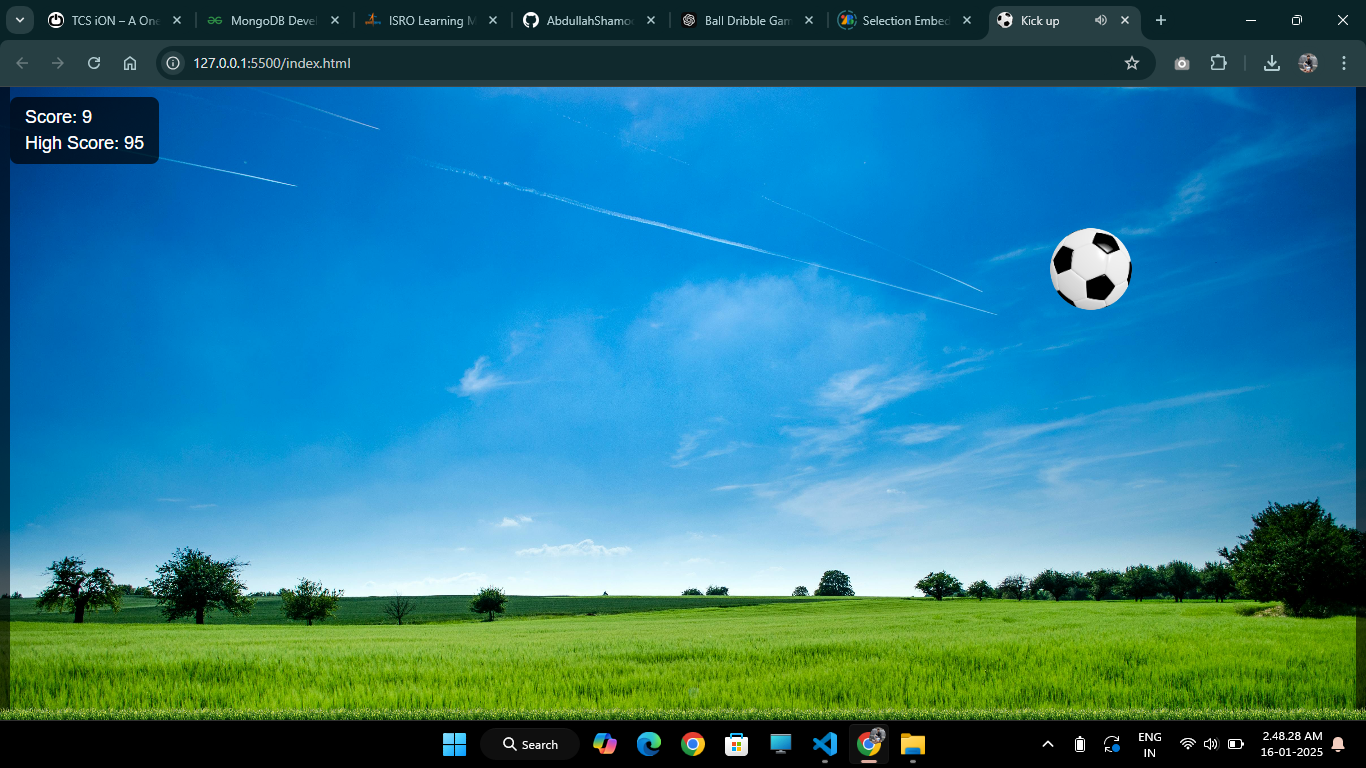
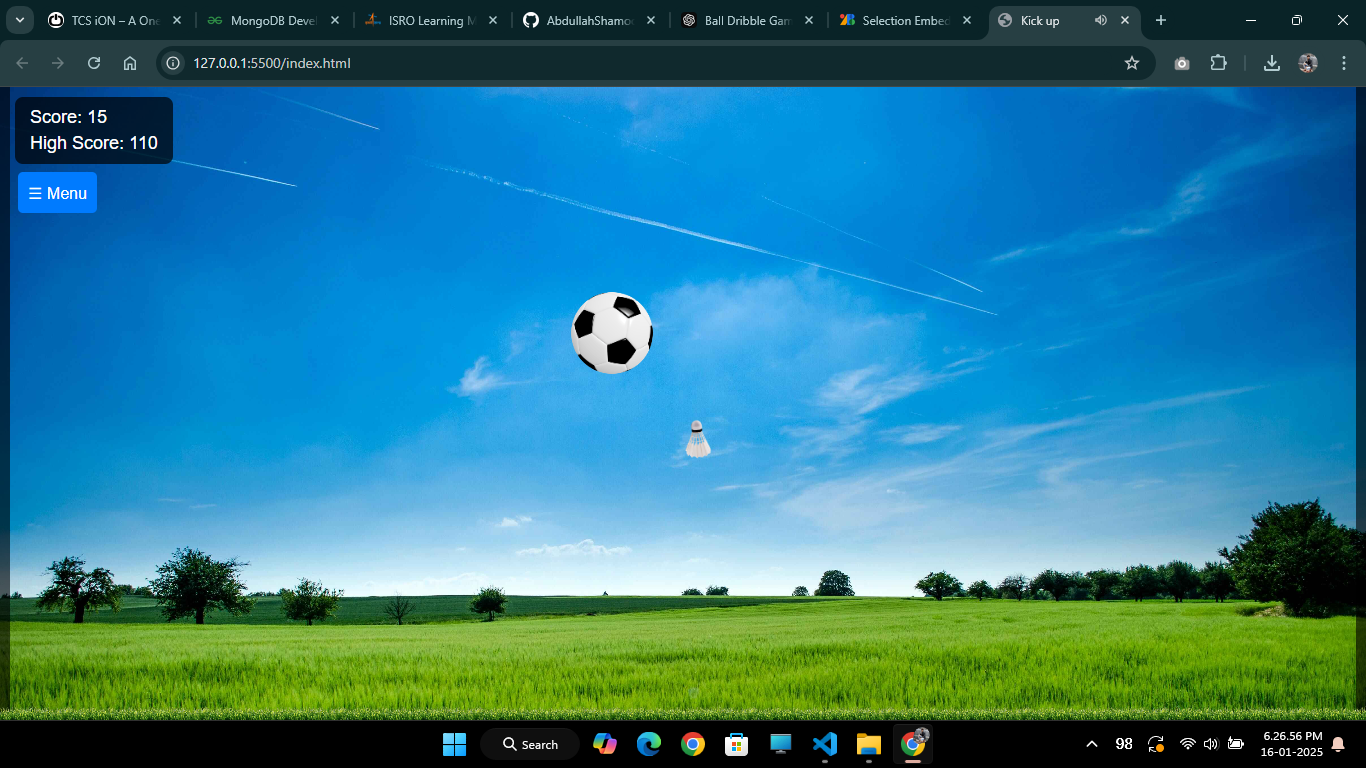
updated readme

diff --git a/README.md b/README.md
@@ -1,37 +1,101 @@
 # Kick Up
 
-**Kick Up** is an interactive, fun game where you use your mouse to bounce a ball off the ground as many times as possible. Each successful bounce adds to your score, and if the ball falls to the ground, the game ends. The ball will bounce in the opposite direction depending on where the mouse cursor hits it, making the game both challenging and exciting.
+An interactive and fun web-based game where you control a bouncing ball using a custom cursor. The goal is to keep the ball in the air as long as possible by bouncing it off the cursor. Each successful bounce increases your score. Customize your gameplay with various cursors, backgrounds, and difficulty levels!
 
-## How to Play
-
-1. Use your mouse cursor to **bounce the ball** by touching it.
-2. Each bounce increases your score by **1 point**.
-3. The ball will bounce in different directions depending on where it is hit (bottom-left, bottom-right, etc.).
-4. **Don't let the ball fall on the ground**—if it does, the game is over.
-5. Press **Restart** to play again after the game ends.
+---
 
 ## Features
 
-- **Bounce mechanics**: The ball bounces off the mouse cursor, with the direction determined by the point of contact.
-- **Score tracking**: The score increases with each bounce and is displayed at the top of the screen.
-- **Sound effects**: Enjoy sound effects when the ball hits the cursor or walls and when the ball falls to the ground.
-- **Highscore tracking**: Your highest score is saved locally and displayed when you restart the game.
+### Core Gameplay:
+- **Bounce the Ball**: Keep the ball from falling to the ground by bouncing it off the cursor.
+- **Dynamic Scoring**: Gain points with each successful bounce. Compete to beat the high score!
+- **Realistic Physics**: The ball moves dynamically, responding to gravity, speed, and cursor collisions.
 
-## Screenshots
+### Customization Menu:
+- **Cursor Selection**: Choose from various cursor designs with visual previews.
+- **Ball Selection**: Choose from different ball images.
+- **Background Themes**: Personalize your gameplay environment with selectable backgrounds.
+- **Difficulty Levels**: Adjust the game's gravity and ball speed for an easy, medium, or hard experience.
 
-![Screenshot 1](screenshots/1.png)
-![Screenshot 1](screenshots/2.png)
+### Sounds and Effects:
+- **Dynamic Sound Effects**: Hear realistic sounds when the ball hits the cursor, walls, or ground, with volume adjusted based on speed.
+- **GSAP Animations**: Smooth animations for menus, cursor movement, and transitions.
 
-## Technologies Used
+### High Score:
+- Your best score is saved locally and displayed for bragging rights.
 
-- **HTML**: For the game structure.
-- **CSS**: For styling the game layout and elements.
-- **JavaScript**: For the game logic, including ball movement, collision detection, scorekeeping, and more.
+---
 
-## Future Improvements
+## How to Play
+1. Move your cursor to bounce the ball upward.
+2. Avoid letting the ball touch the ground.
+3. Each successful bounce adds to your score.
+4. Use the customization menu to enhance your experience.
+5. Aim for the highest score and challenge yourself with harder difficulty levels.
 
-- Add more levels and difficulty options.
-- Implement a leaderboard for top scores.
-- Include more sound effects (e.g., background music).
-- Enhance the visual design with animations or particle effects.
-***and Many More...***
+---
+
+## Tech Stack
+- **HTML5**: Game structure and layout.
+- **CSS3**: Custom styles and visuals.
+- **JavaScript**: Game logic and interactivity.
+- **GSAP (GreenSock Animation Platform)**: Smooth animations for menus and cursor.
+
+---
+
+## Installation
+1. Clone this repository:
+   ```bash
+   git clone https://github.com/AbdullahShamoon/Kick-up.git
+   ```
+2. Open the `index.html` file in your preferred browser.
+
+---
+
+## Customization Options
+### Cursors:
+- Visual representations allow players to select their preferred cursor style.
+
+### Balls:
+- Choose from different ball options from the visual preview.
+
+### Backgrounds:
+- Choose from a variety of themes to customize the gameplay environment.
+
+### Difficulty Levels:
+- Adjust gravity and ball speed for a tailored challenge.
+
+---
+
+## Future Enhancements
+- Add a leaderboard to compare scores globally.
+- Introduce more cursor and background options.
+- Add multiplayer mode for competitive gameplay.
+
+---
+
+## Acknowledgments
+Special thanks to:
+- **GSAP** for providing a robust animation platform.
+- Inspiration from classic bouncing ball games.
+- **Chat-GPT** for assisting in the development process.
+
+---
+
+## License
+This project is licensed under the [MIT License](LICENSE).
+
+---
+
+## Preview
+![Game Screenshot](/screenshots/1.png)
+![Game Screenshot](/screenshots/2.png)
+
+Enjoy the game and keep the ball bouncing!
+
+---
+
+## Author
+**Abdullah Shamoon**  
+Feel free to connect and share your feedback!
+
